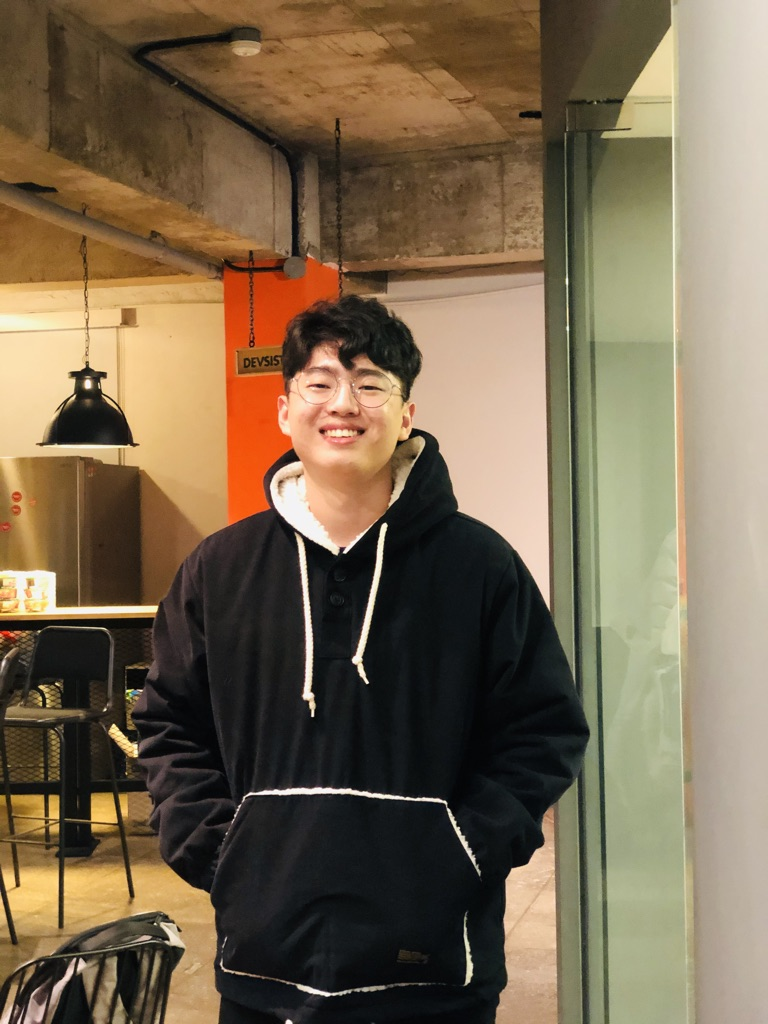
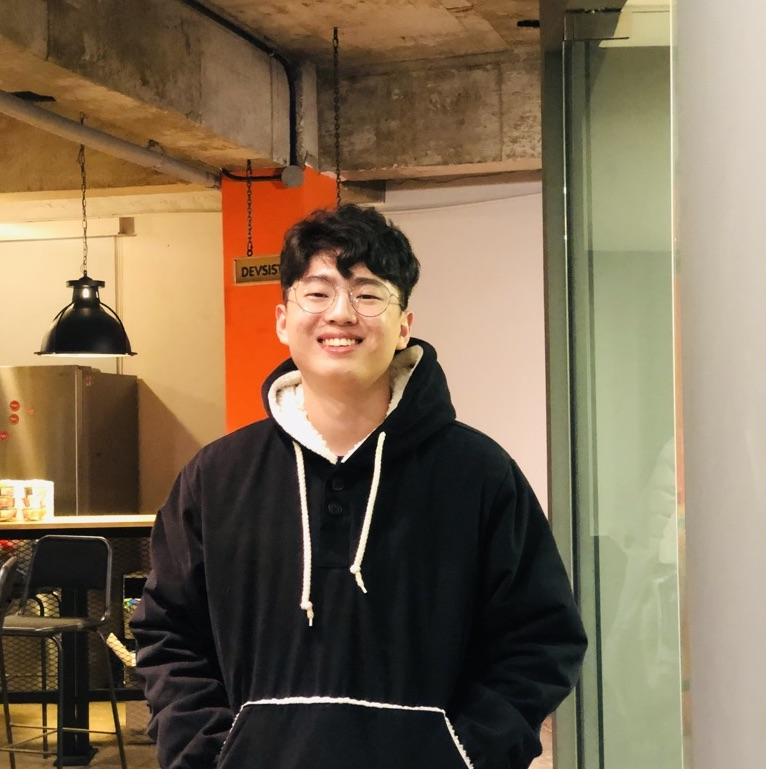
[Front] misc(profile): Update profiles

diff --git a/src/components/ProfileList.js b/src/components/ProfileList.js
@@ -3,10 +3,10 @@ import styled, { css } from "styled-components"
 
 import dj from '../static/dj.jpg';
 import gogi from '../static/gogi.jpg';
-import yuns from '../static/yuns.jpg';
-import ssul from '../static/ssul.jpg';
+import youns from '../static/youns.jpeg';
+import seol from '../static/seol.jpg';
 
-const pics = { dj, gogi, yuns, ssul }
+const pics = { dj, gogi, youns, seol }
 
 const Wrapper = styled.div`
 	width: 100vw;
@@ -144,10 +144,10 @@ const ProfileList = ({ selectProfile, loading}) => {
 				<ul className="choose-profile">
 					{
 						[
-							{ name: 'Seol', key: 'ssul', },
+							{ name: 'Seol', key: 'seol', },
 							{ name: 'Gogi', key: 'gogi', },
 							{ name: 'Dongjin', key: 'dj', },
-							{ name: 'Yuns', key: 'yuns', },
+							{ name: 'Youns', key: 'youns', },
 						].map(({ name, key }) => (
 							<li className="profile">
 								<div>
